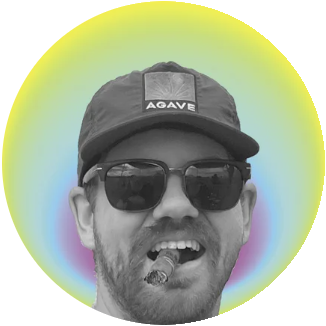
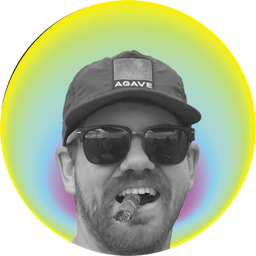
Add files via upload

diff --git a/about/index.html b/about/index.html
@@ -38,7 +38,7 @@
   <section class="band paper">
     <div class="narrow">
       <p style="font-size:21px">Bob Peck is a writer, filmmaker and producer focusing on mystic spirituality. He holds a B.S. in Radio-Television-Film and a B.A. in Religious Studies from the University of Texas at Austin, and is a certified mindfulness teacher. He is the founder of <a href="https://teachwisdomtraditions.com">Teach Wisdom Traditions</a>, which builds curricula and classroom materials on the world's wisdom traditions for schools, educators and facilitators. A frequent guest on spirituality and religion podcasts, he has taught this material in schools, in prisons, and at outdoor patio tables in bars in Austin, Texas.</p>
-      <p>He spent nearly a decade in tech, at Meta and then TikTok, while writing and filming on the side. Lahiri Mahasaya, the Jnanavatar guru of the modern Kriya Yoga lineage, is a big inspiration—he got the teaching and then went back to work, as a father, husband and railroad clerk! Spirituality isn't just for the sadhus these days.</p>
+      <p>He spent nearly a decade in tech, at Meta and then TikTok, while writing and filming on the side. Lahiri Mahasaya, the Jnanavatar guru of the modern Kriya Yoga lineage, is quite the example to follow—he gets the teaching, as a father and husband, and then goes back to work as a clerk for a railroad company. Sure, we can find it on a mountain ashram, but can we find it in the Q2 planning meeting?</p>
       <p style="margin:0">Mind Heart Lens LLC is the company behind the book, the films and the curricula.</p>
     </div>
     <figure class="wide-photo"><img src="../images/bob-workshop.jpg" alt="Bob Peck leading a mindfulness workshop at Meta" loading="lazy"><figcaption>Leading a workshop at Meta as a global co-lead of the Mindfulness@Meta club.</figcaption></figure>
@@ -88,9 +88,9 @@
   </section>
 
   <section class="grid3" id="more">
-    <a class="card" href="../listen/"><span class="label">Listen &amp; Watch</span><h3>Podcasts and films</h3><p>Guest spots, Karmic Relief, the book read aloud, and the documentaries.</p></a>
-    <a class="card" href="../shop/"><span class="label">Shop</span><h3>Books, course, apparel</h3><p>The book, the Companion, the Gita course and the tees.</p></a>
-    <a class="card" href="../facilitate/"><span class="label">Facilitate</span><h3>Bring it to a group</h3><p>For churches, circles, programs and studios.</p></a>
+    <a class="card" href="../listen/"><span class="label">Listen &amp; Watch</span><h3>Podcasts and films</h3><p>Guest spots, Karmic Relief, the book read aloud, and the documentaries.</p><span class="btn solid card-cta">Listen &amp; watch &rarr;</span></a>
+    <a class="card" href="../shop/"><span class="label">Shop</span><h3>Books, course, apparel</h3><p>The book, the Companion, the Gita course and the tees.</p><span class="btn solid card-cta">Visit the shop &rarr;</span></a>
+    <a class="card" href="../facilitate/"><span class="label">Facilitate</span><h3>Bring it to a group</h3><p>For churches, circles, programs and studios.</p><span class="btn solid card-cta">Bring it to a group &rarr;</span></a>
   </section>
 
 <script>

diff --git a/index.html b/index.html
@@ -104,8 +104,9 @@
 
   <section class="band paper" id="instagram">
     <div class="row" style="justify-content:space-between;align-items:flex-end;flex-wrap:wrap;gap:14px;margin-bottom:22px">
-      <div>
-        <h2 style="margin:0">On Instagram</h2>
+      <div class="row" style="align-items:center;gap:16px">
+        <img class="avatar" src="images/bob-avatar.png" alt="Bob Peck's profile picture">
+        <div><h2 style="margin:0">On Instagram</h2><span class="small">@bobpeck</span></div>
       </div>
       <a class="btn solid" href="https://www.instagram.com/bobpeck" style="margin:0">Follow @bobpeck</a>
     </div>
@@ -150,8 +151,15 @@
 
 
 
-  <section id="book-bob">
-    <a class="card" href="media-kit/"><span class="label">Podcasts and interviews</span><h3>Book Bob for a podcast or an interview</h3><p>Bios, photos, topics and sample questions are all in the media kit.</p></a>
+  <section class="band paper" id="book-bob">
+    <div class="row" style="justify-content:space-between;align-items:center;flex-wrap:wrap;gap:18px">
+      <div style="flex:1;min-width:240px">
+        <span class="label">Podcasts and interviews</span>
+        <h3 style="font-size:24px">Book Bob for a podcast or an interview</h3>
+        <p style="margin:0">Bios, photos, topics and sample questions are all in the media kit.</p>
+      </div>
+      <a class="btn solid" href="media-kit/" style="margin:0">How to book Bob &rarr;</a>
+    </div>
   </section>
 
   <section class="band ink" id="license">

diff --git a/media-kit/index.html b/media-kit/index.html
@@ -110,6 +110,7 @@
     <span class="label">Photos and art</span>
     <h2>Download</h2>
     <div class="dl-grid">
+      <a class="dl" href="../images/bob-avatar.png" download><img src="../images/bob-avatar.png" alt="" loading="lazy" style="object-fit:contain;background:#fff"><span>Profile image</span></a>
       <a class="dl" href="../images/bob-podcast.jpg" download><img src="../images/bob-podcast.jpg" alt="" loading="lazy"><span>On the mic</span></a>
       <a class="dl" href="../images/bob-headshot.jpg" download><img src="../images/bob-portrait.jpg" alt="" loading="lazy"><span>Headshot, color</span></a>
       <a class="dl" href="../images/bob-headshot-bw.jpg" download><img src="../images/bob-headshot-bw.jpg" alt="" loading="lazy"><span>Headshot, black and white</span></a>

diff --git a/style.css b/style.css
@@ -300,3 +300,14 @@ button.btn{cursor:pointer;font-family:var(--sans)}
 .thumbcard span{display:block;font-size:14px;color:var(--soft)}
 @media (max-width:860px){.thumbs{grid-template-columns:1fr 1fr}}
 @media (max-width:640px){.thumbs{grid-template-columns:1fr}}
+
+#guest .thumbcard{cursor:pointer}
+
+.avatar{width:72px;height:72px;border-radius:50%;flex:none}
+.card-cta{margin-top:auto;align-self:flex-start}
+#more .card p{margin-bottom:18px}
+#more .card{border-color:var(--line)}
+#more .card:hover .btn{background:var(--plum);border-color:var(--plum)}
+.dl-grid{grid-template-columns:repeat(6,1fr)}
+@media (max-width:860px){.dl-grid{grid-template-columns:repeat(3,1fr)}}
+@media (max-width:640px){.dl-grid{grid-template-columns:1fr 1fr}#book-bob .btn{width:100%}}
